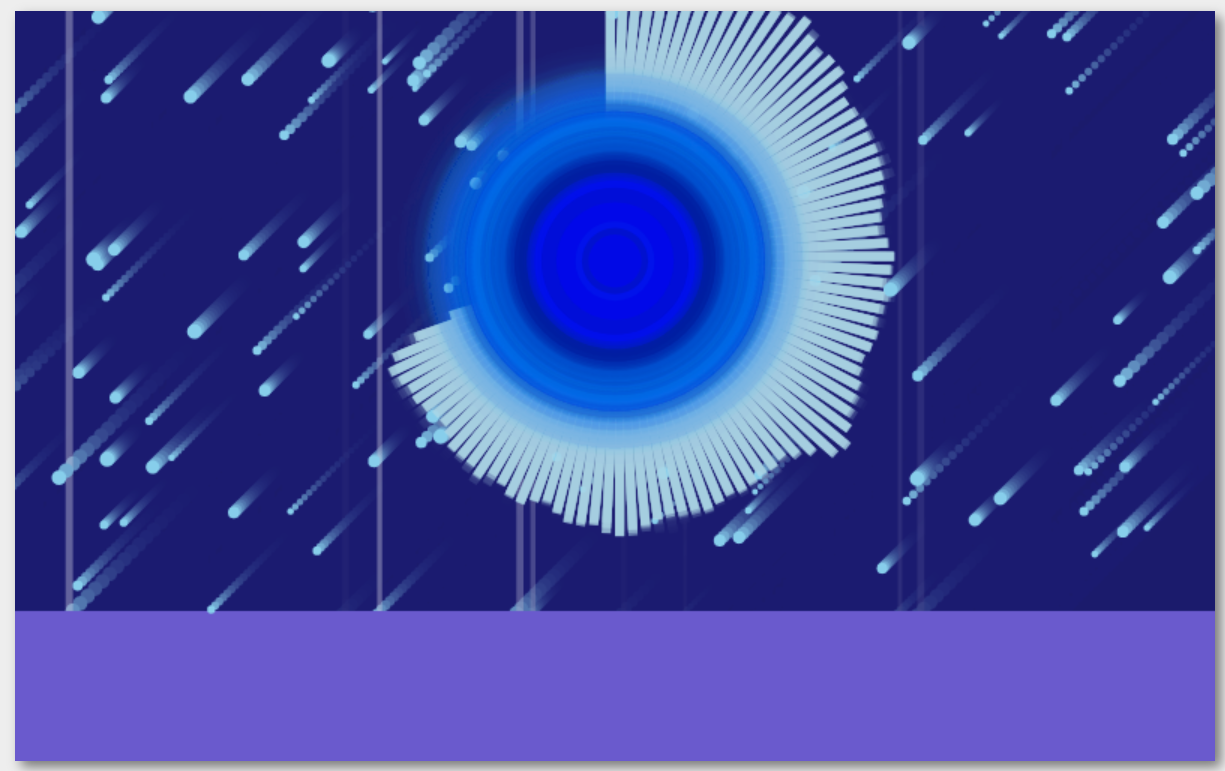
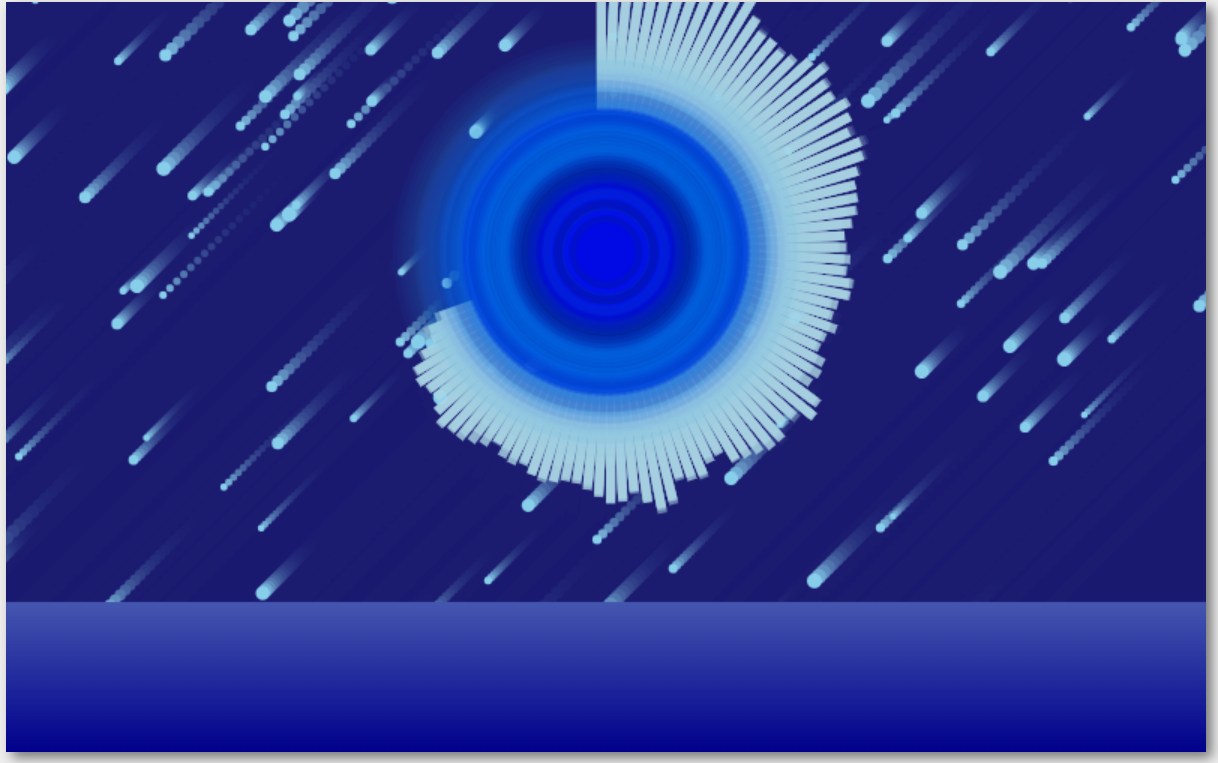
Finished project 2

diff --git a/project-2/app.html b/project-2/app.html
@@ -7,6 +7,9 @@
     <meta name="viewport" content="width=device-width, initial-scale=1.0">
     <title>Comet Audio Visualizer</title>
     <link rel="icon" type="image/x-icon" href="images/favicon.ico">
+    <link rel="preconnect" href="https://fonts.googleapis.com">
+    <link rel="preconnect" href="https://fonts.gstatic.com" crossorigin>
+    <link href="https://fonts.googleapis.com/css2?family=Bangers&display=swap" rel="stylesheet">
     <link rel="stylesheet" href="styles/main.css">
     <link rel="stylesheet" href="https://cdn.jsdelivr.net/npm/bulma@0.9.3/css/bulma.min.css">
     <script type="module" src="src/app.js"></script>
@@ -28,8 +31,8 @@
         <button id="fs-button" class="button is-link">Full Screen</button>
     </div>
 
-    <section id="controls" class="section">
-        <label class="label">Track:
+    <div id="controls" class="section">
+        <label>Track: 
             <select id="track-select">
                 <option value="media/Stellar Stellar.mp3" selected>Stellar Stellar</option>
                 <option value="media/Kakero.mp3">Kakero</option>
@@ -38,18 +41,18 @@
                 <option value="media/Bully.mp3">Bully</option>
                 <option value="media/Lose-Lose Days.mp3">Lose-Lose Days</option>
             </select>
-        </label>
+        </label><br>
 
         Volume: <input type="range" id="volume-slider" min="0" max="2" value="1" step="0.01">
         <span id="volume-label">???</span><br>
-        <span><input type="checkbox" id="circles-checkbox"><label for="circles-checkbox">Show Circles</label></span>
-        <span><input type="checkbox" id="bars-checkbox"><label for="bars-checkbox">Show Bars</label></span>
-        <span><input type="checkbox" id="comets-checkbox"><label for="comets-checkbox">Show Comets</label></span>
-        <span><input type="checkbox" id="trails-checkbox"><label for="trails-checkbox">Show Trails</label></span>
-        <span><input type="checkbox" id="impacts-checkbox"><label for="impacts-checkbox">Show Impacts</label></span>
-        <span><input type="checkbox" id="monochrome-checkbox"><label for="monochrome-checkbox">Monochrome</label></span>
+        <span><input type="checkbox" id="circles-checkbox"><label for="circles-checkbox" class="parameter">Show Circles</label></span>
+        <span><input type="checkbox" id="bars-checkbox"><label for="bars-checkbox" class="parameter">Show Bars</label></span>
+        <span><input type="checkbox" id="comets-checkbox"><label for="comets-checkbox" class="parameter">Show Comets</label></span>
+        <span><input type="checkbox" id="trails-checkbox"><label for="trails-checkbox" class="parameter">Show Trails</label></span>
+        <span><input type="checkbox" id="impacts-checkbox"><label for="impacts-checkbox" class="parameter">Show Impacts</label></span>
+        <span><input type="checkbox" id="monochrome-checkbox"><label for="monochrome-checkbox" class="parameter">Monochrome</label></span>
 
-    </section>
+    </div>
 
     <app-footer>
         <span>

diff --git a/project-2/documentation.html b/project-2/documentation.html
@@ -29,6 +29,8 @@
         <h2 class="subtitle mt-4 mb-0">Resources Utilized</h2>
         <ul>
             <li><a href="https://bulma.io/documentation/">https://bulma.io/documentation/</a></li>
+            <li><a href="https://fonts.google.com/">https://fonts.google.com/</a></li>
+            <li><a href="https://favicon.io/emoji-favicons/">https://favicon.io/emoji-favicons/</a></li>
             <li><a href="https://www.w3schools.com/cssref/css_colors.asp">https://www.w3schools.com/cssref/css_colors.asp</a></li>
             <li><a href="https://stackoverflow.com/questions/10024866/remove-object-from-array-using-javascript">https://stackoverflow.com/questions/10024866/remove-object-from-array-using-javascript</a></li>
         </ul>
@@ -40,17 +42,27 @@
 
         <h2 class="subtitle mt-4 mb-0">Noteworthy</h2>
         <ul>
-            <li>To be added later</li>
+            <li><strong>Comets:</strong> Added comets that fall down the screen using JavaScript classes.</li>
+            <li><strong>Fetch:</strong> Asynchronously fetches JSON from a file for presets.</li>
+            <li><strong>Web Components:</strong> Used web components for header, footer, and navbar.</li>
+            <li><strong>Transformations:</strong> Used transformations to make the bars go in a circle.</li>
+
         </ul>
 
         <h2 class="subtitle mt-4 mb-0">Grading</h2>
         <ul>
-            <li>To be added later</li>
+            <li><strong>Navigation:</strong> Tells the user which page they are currently on.</li>
+            <li><strong>Bulma:</strong> Uses the Bulma CSS framework.</li>
+            <li><strong>Labels:</strong> Easy to use with instructions, buttons and inputs are all labelled.</li>
+            <li><strong>Error Handling:</strong> Handles errors gracefully, though no errors appear in testing.</li>
+            <li><strong>App States:</strong> App tells you when song is playing.</li>
         </ul>
 
         <h2 class="subtitle mt-4 mb-0">To Do</h2>
         <ul>
-            <li>To be added later</li>
+            <li><strong>More Colors:</strong> Add other colors or color sets to the app.</li>
+            <li><strong>Mobile Friendly:</strong> Make the canvas smaller for smaller screens.</li>
+            <li><strong>Other Options:</strong> I didn't have too much time to experiment with other effects, such as pulsing meteors/changing colors.</li>
         </ul>
     </section>
 

diff --git a/project-2/src/visualizer.js b/project-2/src/visualizer.js
@@ -94,7 +94,7 @@ const draw = (params = {}) => {
                 if (params.showImpacts) {
                     ctx.save();
                     ctx.fillStyle = "rgba(255, 255, 255, 0.4)";
-                    ctx.fillRect(comets[i].x, 0, comets[i].radius, comets[i].y, )
+                    ctx.fillRect(comets[i].x, 0, comets[i].radius, canvasHeight);
                     ctx.restore();
                 }
 
@@ -135,21 +135,21 @@ const draw = (params = {}) => {
             // dark blue circles
             ctx.beginPath();
             ctx.fillStyle = utils.makeColor(0, 0, 128, 0.34 - percent / 3.0);
-            ctx.arc(canvasWidth / 2, canvasHeight / 3, circleRadius, 0, 2 * Math.PI, false);
+            ctx.arc(canvasWidth / 2, canvasHeight / 3, circleRadius * 1.3, 0, 2 * Math.PI, false);
             ctx.fill();
             ctx.closePath();
 
             // light blue circles, bigger, more transparent
             ctx.beginPath();
             ctx.fillStyle = utils.makeColor(0, 128, 255, 0.10 - percent / 10.0);
-            ctx.arc(canvasWidth / 2, canvasHeight / 3, circleRadius * 1.2, 0, 2 * Math.PI, false);
+            ctx.arc(canvasWidth / 2, canvasHeight / 3, circleRadius * 1.6, 0, 2 * Math.PI, false);
             ctx.fill();
             ctx.closePath();
 
             // blue circles, smaller
             ctx.beginPath();
             ctx.fillStyle = utils.makeColor(0, 0, 255, 0.5 - percent / 5.0);
-            ctx.arc(canvasWidth / 2, canvasHeight / 3, circleRadius * 0.8, 0, 2 * Math.PI, false);
+            ctx.arc(canvasWidth / 2, canvasHeight / 3, circleRadius, 0, 2 * Math.PI, false);
             ctx.fill();
             ctx.closePath();
         }

diff --git a/project-2/about.html b/project-2/about.html
@@ -21,10 +21,10 @@
 
     <app-navbar data-currentpage="about"></app-navbar>
 
-    <section class="section">
-        Welcome to the Comet Audio Visualizer! This is an audio visualizer that has multiple functions, including having comets fall in the background. More comets fall as the songs get louder. There are multiple options to control the various effects that appear on the screen, as well as different color sets.
+    <div class="section">
+        Welcome to the Comet Audio Visualizer! This is an audio visualizer that has multiple functions, including having comets fall in the background. More comets fall as the songs get louder. There are multiple options to control the various effects that appear on the screen, including adding extra effects to the falling comets.
         <img src="images/comets.png" alt="comet audio visualizer">
-    </section>
+    </div>
 
     <app-footer>
         <span>

diff --git a/project-2/styles/main.css b/project-2/styles/main.css
@@ -1,10 +1,6 @@
 body {
     background: #eeeeee;
-    font-family: tahoma, verdana, sans serif;
-}
-
-span {
-    margin-right: 1rem;
+    user-select: none;
 }
 
 canvas {
@@ -19,8 +15,16 @@ canvas {
     margin-left: 1rem;
 }
 
-section {
+.parameter {
+    padding: 0 0.5rem;
+    margin-right: 1rem;
+}
+
+#controls {
     margin-bottom: 1rem;
+    font-size: 20px;
+    font-family: 'Bangers', cursive;
+    color: royalblue;
 }
 
 #buttons {

diff --git a/project-2/src/app-header.js b/project-2/src/app-header.js
@@ -4,7 +4,7 @@ template.innerHTML = `
 <style>
 :host {
     user-select: none;
-} 
+}
 </style>
 <header class="hero is-small is-info is-bold">
     <div class="hero-body">
